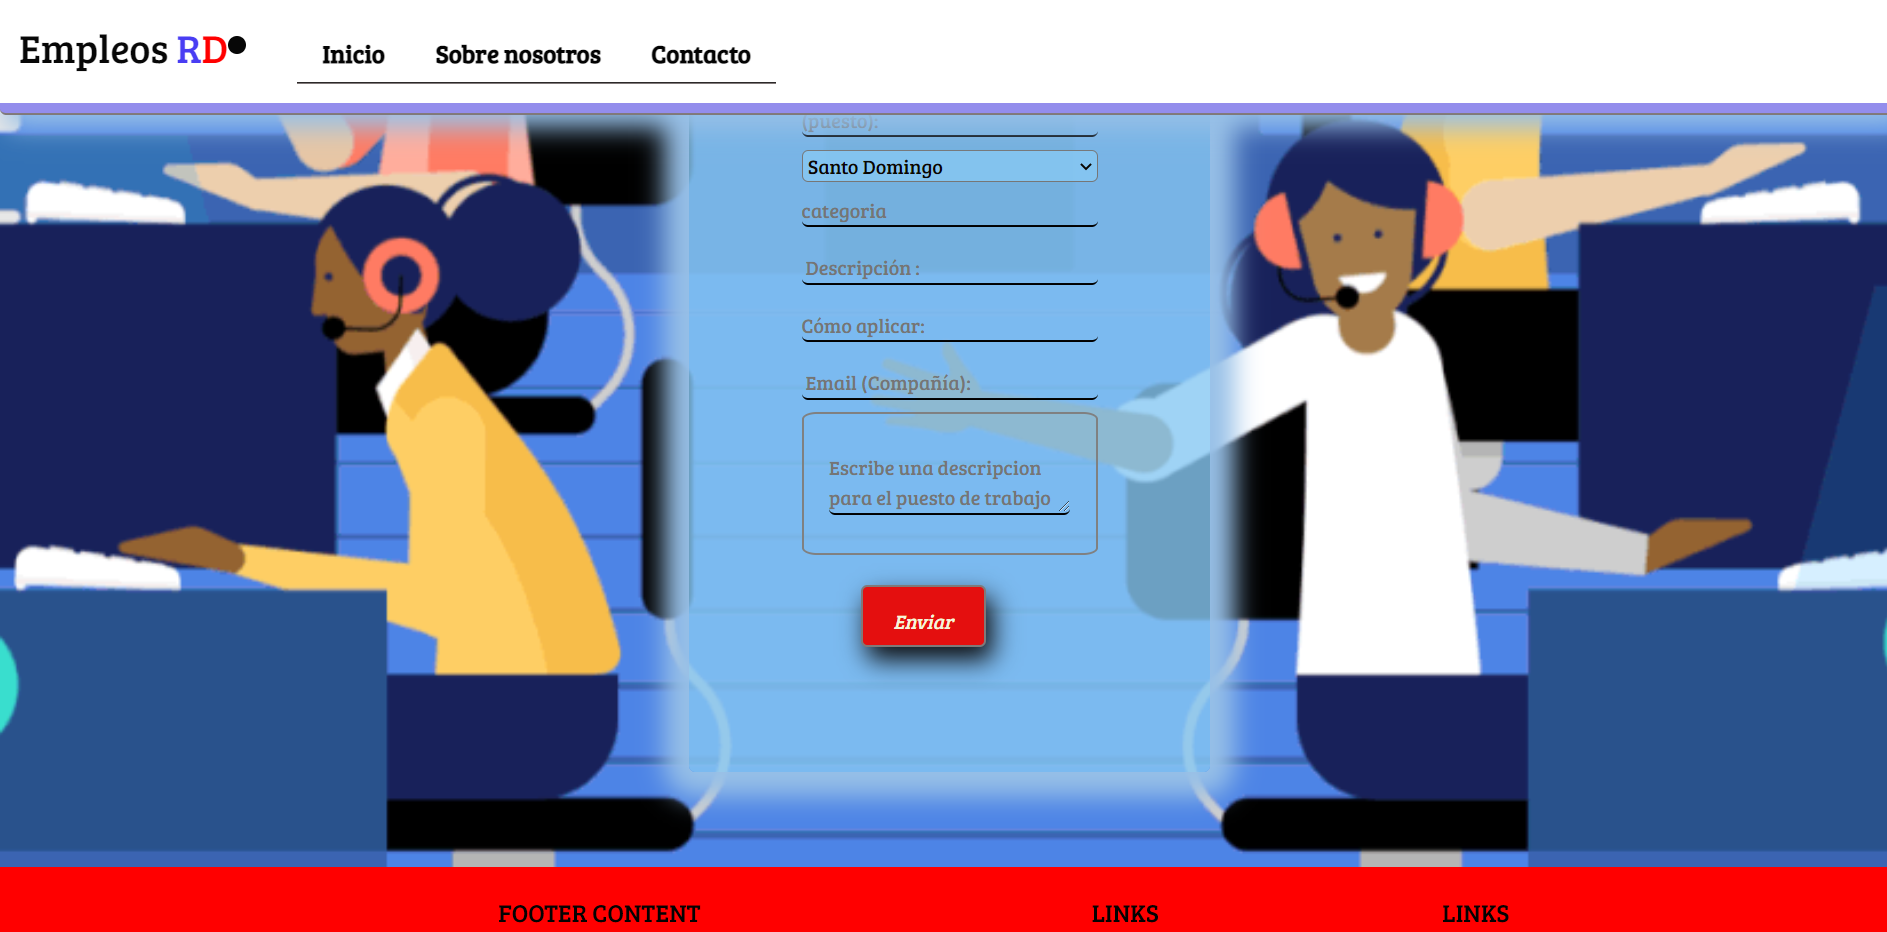
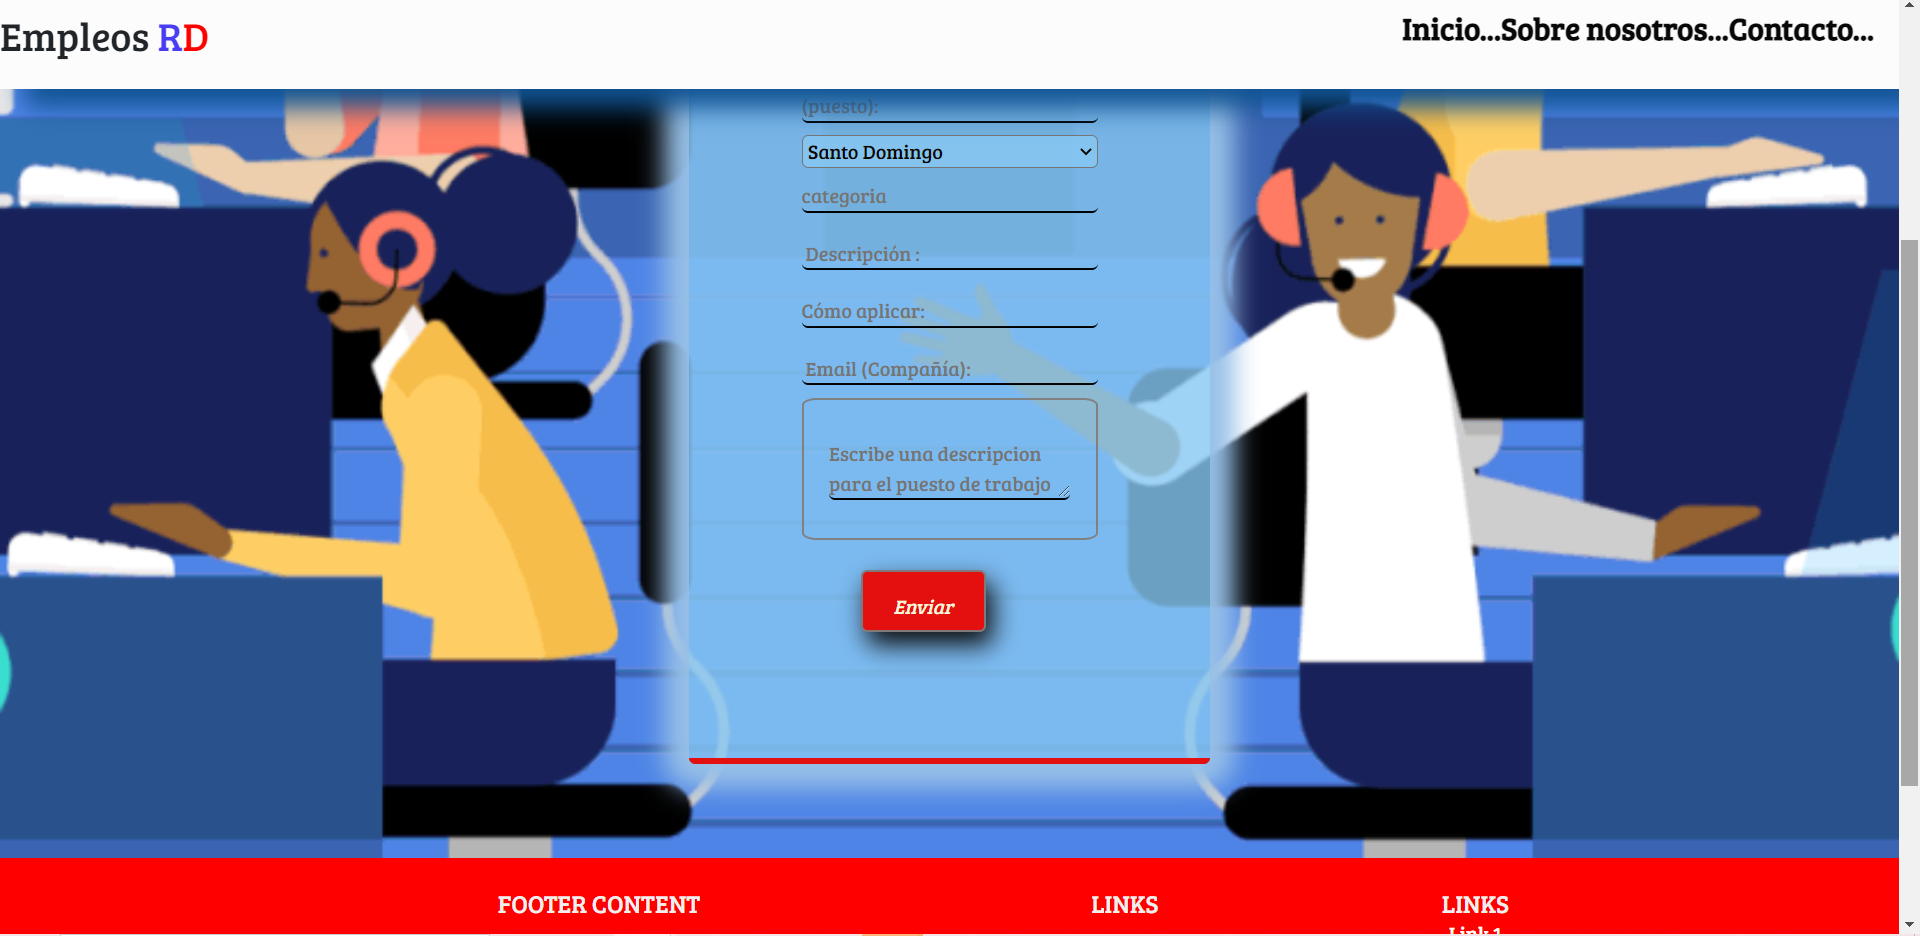
style form

diff --git a/frontend/public/index.html b/frontend/public/index.html
@@ -2,7 +2,7 @@
 <html lang="en">
   <head>
     <meta charset="utf-8" />
-    <link rel="icon" href="indexIcon.gif" />
+    <link rel="icon" href="empleos.jfif" />
     <link rel="stylesheet" href="app.css">
     <link rel="stylesheet" href="https://stackpath.bootstrapcdn.com/bootstrap/4.3.1/css/bootstrap.min.css" integrity="sha384-ggOyR0iXCbMQv3Xipma34MD+dH/1fQ784/j6cY/iJTQUOhcWr7x9JvoRxT2MZw1T" crossorigin="anonymous">
     <link rel="preconnect" href="https://fonts.gstatic.com">
@@ -17,7 +17,9 @@
 
     <title>Empleos RD</title>
  
-    <header id="header"></header>
+    <header id="header">
+      
+    </header>
    
   
   <body>
@@ -49,16 +51,16 @@
     
             <ul class="list-unstyled mb-0">
               <li>
-                <a href="#!" >Link 1</a>
+                <a href="#!" class="text-white">Link 1</a>
               </li>
               <li>
-                <a href="#!" >Link 2</a>
+                <a href="#!" class="text-white">Link 2</a>
               </li>
               <li>
-                <a href="#">Link 3</a>
+                <a href="#" class="text-white">Link 3</a>
               </li>
               <li>
-                <a href="#!" >Link 4</a>
+                <a href="#!"class="text-white" >Link 4</a>
               </li>
             </ul>
           </div>
@@ -70,16 +72,16 @@
     
             <ul class="list-unstyled">
               <li>
-                <a href="#!" ">Link 1</a>
+                <a href="#!"class="text-white">Link 1</a>
               </li>
               <li>
-                <a href="#!" >Link 2</a>
+                <a href="#!"class="text-white">Link 2</a>
               </li>
               <li>
-                <a href="#!" >Link 3</a>
+                <a href="#!" class="text-white">Link 3</a>
               </li>
               <li>
-                <a href="#!" ">Link 4</a>
+                <a href="#!" class="text-white">Link 4</a>
               </li>
             </ul>
           </div>
@@ -92,7 +94,7 @@
       <!-- Copyright -->
       <div class="text-center p-3" style="background-color: rgba(0, 0, 0, 0.2)">
         © 2020 Copyright:
-        <a class="text-dark" href="https://mdbootstrap.com/">MDBootstrap.com</a>
+        <a class="class="text-white" href="https://mdbootstrap.com/">MDBootstrap.com</a>
       </div>
       <!-- Copyright -->
     </footer>

diff --git a/frontend/src/App.css b/frontend/src/App.css
@@ -30,6 +30,7 @@ h1 {
   color: rgb(7, 7, 7);
   box-sizing: border-box;
   width: 100%;
+  margin-left: 2%;
   display: flex;
   align-items: baseline;
   padding: 1%;
@@ -48,14 +49,13 @@ h1 {
     transform: rotate(360deg);
   }
 }
-header {
-  /* position: fixed; */
-  text-align: end;
-  border-bottom: 2px solid rgb(128, 121, 121);
-  border-radius: 5px;
-  box-shadow: 5px 10px 20px #97c0e7;
-  background-color: #938dec;
+.header {
   position: fixed;
+  text-align: end;
+  justify-content: space-around;
+  border-bottom: 2px solid transparent;
+  box-shadow: 20px 15px 20px #105392;
+  background-color: #fcfcfc;
   top: 0%;
   left: 0%;
   width: 100%;
@@ -64,27 +64,29 @@ header {
   align-items: center;
   transition: 0.6s;
 }
-header li a {
-  display: inline-table;
-  justify-content: end;
-  align-items: flex-end;
+.header-nav {
+  justify-content: space-around;
   color: #030303;
-  text-decoration: none;
-  padding: 10px 20px;
+  padding: 10px 20px 30px;
   line-height: normal;
   font-size: 20px;
   font-weight: bold;
   -webkit-transition: all 500ms ease;
   -o-transition: 500ms ease;
   transition: all 500ms ease;
-  list-style: none;
-  border-bottom: 2px solid rgb(128, 121, 121);
-  border-bottom-style: groove;
 }
-
-header li a:hover {
+header nav a {
+  font-size: 25px;
+  display: inline-flex;
+  justify-content: space-between;
+}
+header nav a:hover {
+  color: #103b97;
   background: rgb(136, 129, 163);
   border-radius: 50px;
+}
+#nav {
+  color: #030303;
 }
 #R {
   color: #493df3;
@@ -93,9 +95,9 @@ header li a:hover {
   color: red;
 }
 a {
-  color: #030303;
+  color: #080808;
 }
 #footer {
-  color: #030303;
+  color: #f1eeee;
   background-color: red;
 }

diff --git a/frontend/src/App.js b/frontend/src/App.js
@@ -3,18 +3,25 @@ import "./App.css";
 import ReactDOM from "react-dom";
 function Header(props) {
   return (
-    <div className="Header">
-      <header className="App-header">
-        <h1>
-          <h2>Empleos <span id="R">R</span><span id="D">D</span></h2>
-          <li id="nav">
-            <a href="">Inicio</a>
-            <a href="">Sobre nosotros</a>
-            <a href="">Contacto</a>
-          </li>
-        </h1>
+    <div className="header">
+      
+   
+          <h2>
+            Empleos <span id="R">R</span>
+            <span id="D">D</span>
+          </h2>
+          <div>
+      <header className="header-nav">
+        
+        <nav id="nav">
+          <a href="">Inicio...</a>
+          <a href="">Sobre nosotros...</a>
+          <a href="">Contacto...</a>
+        </nav>
       </header>
     </div>
+    </div>
+   
   );
 }
 

diff --git a/frontend/src/index.css b/frontend/src/index.css
@@ -12,7 +12,6 @@ code {
     monospace;
 }
 
-
 #container {
   display: flex;
   justify-content: center;
@@ -30,6 +29,8 @@ code {
   border-radius: 5px;
   box-shadow: 0px 0px 20px 20px #97c0e7;
   background-color: rgba(135, 200, 243, 0.8);
+  border-top: 5px solid rgb(17, 53, 211);
+  border-bottom: 5px solid #e40f0f;
 }
 #form-input {
   display: flex;
